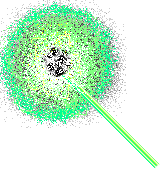
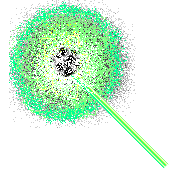
align the zapper properly jfc

diff --git a/script.js b/script.js
@@ -115,7 +115,7 @@ function getWindowContent(windowType) {
         },
         'network-neighborhood': {
             title: 'Network Neighborhood',
-            content: `<div style='padding:10px;'><h3>Network Neighborhood</h3><p>uhhhhhhh</p></div>`
+            content: `<div style='padding:10px;'><h3>Network Neighborhood</h3><p>"Neighborhood" you say...</p></div>`
         },
         'inbox': {
             title: 'Inbox',
@@ -326,8 +326,8 @@ document.addEventListener('DOMContentLoaded', function() {
     function setZapperCursorActive(active) {
         if (active) {
             customCursor.style.display = 'block';
-            customCursor.style.width = '120px';
-            customCursor.style.height = '120px';
+            customCursor.style.width = '180px';
+            customCursor.style.height = '180px';
             customCursor.innerHTML = `<img src="${ZAPPER_IDLE}" style="width:100%;height:100%;object-fit:contain;">`;
             desktop.style.cursor = 'none';
         } else {
@@ -535,13 +535,23 @@ document.addEventListener('DOMContentLoaded', function() {
             zapperEffectImg.style.position = 'fixed';
             zapperEffectImg.style.pointerEvents = 'none';
             zapperEffectImg.style.zIndex = '100000';
-            zapperEffectImg.style.width = '48px';
-            zapperEffectImg.style.height = '48px';
+            zapperEffectImg.style.transform = 'scale(0.5)';
+            zapperEffectImg.style.display = 'none';
             document.body.appendChild(zapperEffectImg);
         }
-        // Position at top-left of custom cursor
-        zapperEffectImg.style.left = (x - 60) + 'px';
-        zapperEffectImg.style.top = (y - 60) + 'px';
+        // Align to top-left of zapper sprite image inside customCursor
+        const cursorRect = customCursor.getBoundingClientRect();
+        const zapperImg = customCursor.querySelector('img');
+        let offsetLeft = 0;
+        let offsetTop = 0;
+        if (zapperImg && currentTool === 'zapper') {
+            // If the zapper image is smaller or offset inside the customCursor, get its offset
+            const imgRect = zapperImg.getBoundingClientRect();
+            offsetLeft = imgRect.left - cursorRect.left;
+            offsetTop = imgRect.top - cursorRect.top;
+        }
+        zapperEffectImg.style.left = (cursorRect.left + offsetLeft - 50 - 10 - 5) + 'px';
+        zapperEffectImg.style.top = (cursorRect.top + offsetTop - 50 - 10 - 5) + 'px';
         // Set image source based on toggle
         zapperEffectImg.src = zapperEffectToggle ? 'assets/zap2.png' : 'assets/zap1.png';
         zapperEffectImg.style.display = 'block';
@@ -595,8 +605,8 @@ document.addEventListener('DOMContentLoaded', function() {
             lastCursorY = e.clientY;
             sprayX = e.clientX;
             sprayY = e.clientY;
-            // Update zapper effect image position
-            updateZapperEffectImg(e.clientX, e.clientY);
+            // Do NOT show zapper effect image on mousemove
+            hideZapperEffectImg();
         } else {
             hideZapperEffectImg();
         }
@@ -727,6 +737,9 @@ document.addEventListener('DOMContentLoaded', function() {
                     }
                 }
             }, 50);
+            // Toggle and update effect image immediately on click
+            zapperEffectToggle = !zapperEffectToggle;
+            updateZapperEffectImg(e.clientX, e.clientY);
         }
     });
     desktop.addEventListener('mouseup', function(e) {
